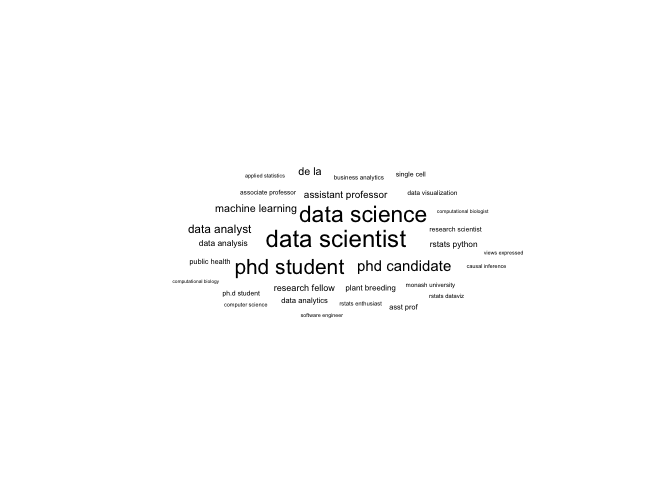
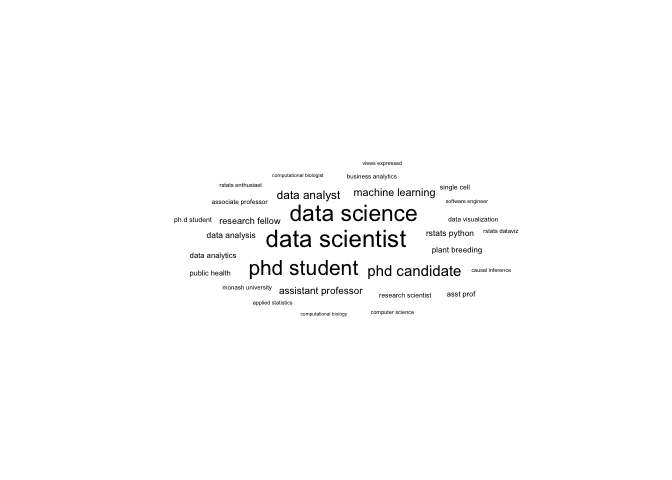
github metrics

Changed region(s): [[0.25, 0.3125, 0.7812, 0.6875]]

diff --git a/README.md b/README.md
@@ -7,14 +7,16 @@
 
 <!-- badges: end -->
 
+The purpose of the repo is to contain evidence for my engagement
+activities. If you are using the data not intended for this purpose, I’d
+appreciate it if you let me know although it is not necessarily.
+
+## Twitter engagement data
+
 This repo contains twitter engagement data from my account
 <a href="https://twitter.com/statsgen">@statsgen</a>. The data is
 licensed under [CC
 BY‑NC‑ND](https://creativecommons.org/licenses/by-nc-nd/2.0/au/).
-
-The purpose of the repo is to contain evidence for my engagement
-activities. If you are using the data not intended for this purpose, I’d
-appreciate it if you let me know although it is not necessarily.
 
 The code below shows how the data are read and analysed. The output
 metrics are also shown below.
@@ -48,7 +50,10 @@ ggplot(df, aes(time, impressions)) +
 
 ## Twitter followers
 
-This shows what sort of followers I have.
+In this section I extract the profile descriptions of my followers and
+get the counts of bigrams. The analysis clearly shows that the largest
+group of people who follow me are in the data science or related
+profession.
 
 ``` r
 library(rtweet)
@@ -111,3 +116,41 @@ profile_df %>%
 | monash university       |  15 |
 | computational biologist |  14 |
 | ph.d student            |  13 |
+
+## GitHub metrics
+
+``` r
+library(glue)
+library(jsonlite)
+username <- "emitanaka"
+base <- "https://api.github.com/users"
+
+gh_nfollowers <- read_json(glue("{base}/{username}"))$followers
+gh_nrepo <- read_json(glue("{base}/{username}"))$public_repos
+total_stars <- 0
+for(i in 1:ceiling(gh_nrepo / 30)) {
+  stars <- read_json(glue("{base}/{username}/repos?page={i}")) %>% 
+    map_chr(pluck, "stargazers_count") %>% 
+    as.integer() %>% 
+    sum()
+  total_stars <- total_stars + stars
+}
+```
+
+I have a total of **258 followers** and **584 stars** across all my
+public repositories.
+
+``` r
+# don't use this, it kills the usage rate
+gh_followers <- c()
+for(i in 1:ceiling(gh_nfollowers/30)) {
+   gh_followers <- read_json(glue("{base}/{username}/followers?page={i}")) %>%
+     map_chr(pluck, "login") %>%
+     c(gh_followers, .)
+}
+
+bios <- c()
+for(user in gh_followers) {
+   bios <- c(bios, read_json(glue("{base}/{user}"))$bio)
+}
+```
